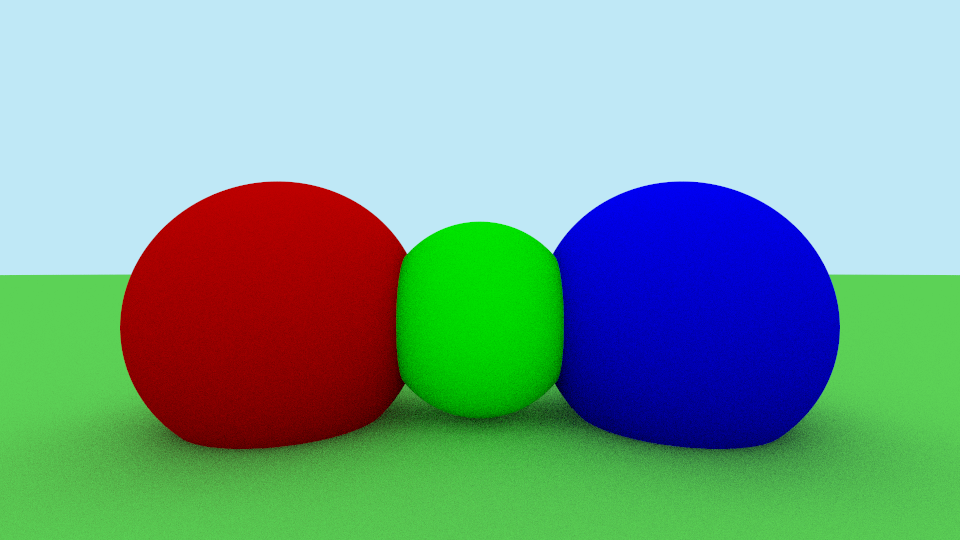
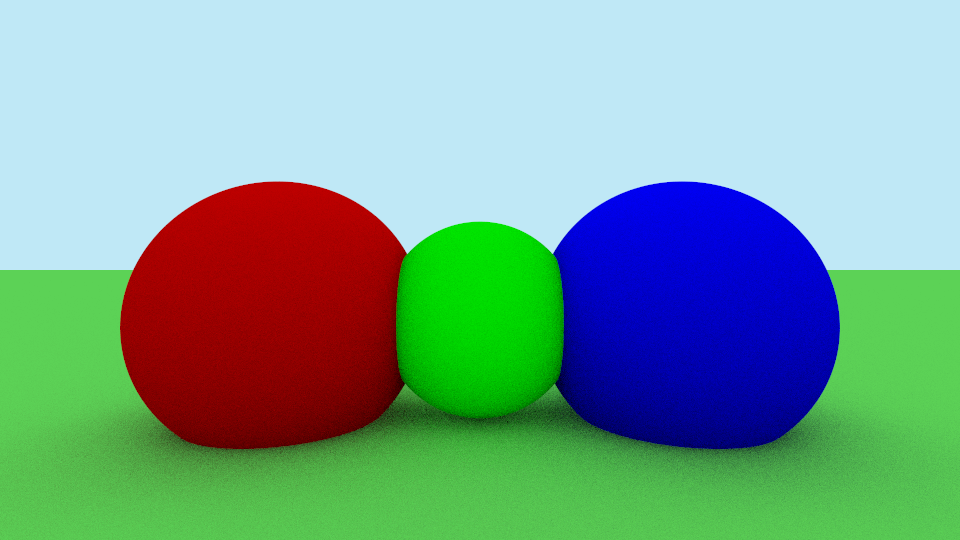
code cleanup and a5 camera works again.

diff --git a/src/cgg/a05/Main.java b/src/cgg/a05/Main.java
@@ -3,14 +3,18 @@ package cgg.a05;
 
 import java.util.Arrays;
 
-// import cgg.a05_2022.DiffuseMat;
-// import cgg.a05_2022.Group;
-// import cgg.a05_2022.Shape;
-// import cgg.a05_2022.Sphere;
-import cgtools.*;
+import cgtools.Color;
+import cgtools.Direction;
+import cgtools.Image;
+import cgtools.Matrix;
+import cgtools.Point;
+import cgtools.Sampler;
+import cgtools.Vector;
+// import cgtools.*;
 import cgtools.materials.DiffuseMat;
 import cgtools.materials.MaterialBackground;
 import cgtools.shapes.*;
+import cgtools.Camera;
 
 public class Main {
 
@@ -28,7 +32,7 @@ public class Main {
   public static void scene(int width, int height) {
     System.out.println("scene");
 
-    Camera camera = new Camera(Math.PI / 2, width, height);
+    Camera camera = new Camera(Math.PI / 2, width, height, Matrix.rotation(Vector.xAxis, 0));
 
     Shape background = new Background(new MaterialBackground(new Color(0.53, 0.81, 0.92)));
     Shape ground = new Disc(new Point(0, -0.75, 0), new Direction(0, 1, 0), 0, new DiffuseMat(new Color(0.2, 0.8, 0.1)));

diff --git a/src/cgg/a06/Main.java b/src/cgg/a06/Main.java
@@ -28,8 +28,6 @@ public class Main {
   public static void scene(int width, int height) {
     System.out.println("scene");
 
-    System.out.println(Matrix.rotation(Vector.yAxis, -15));
-
     Matrix viewingMatrix = Matrix.multiply(
       Matrix.rotation(Vector.yAxis, -15),
       Matrix.translation(new Direction(0, 0, 5))
